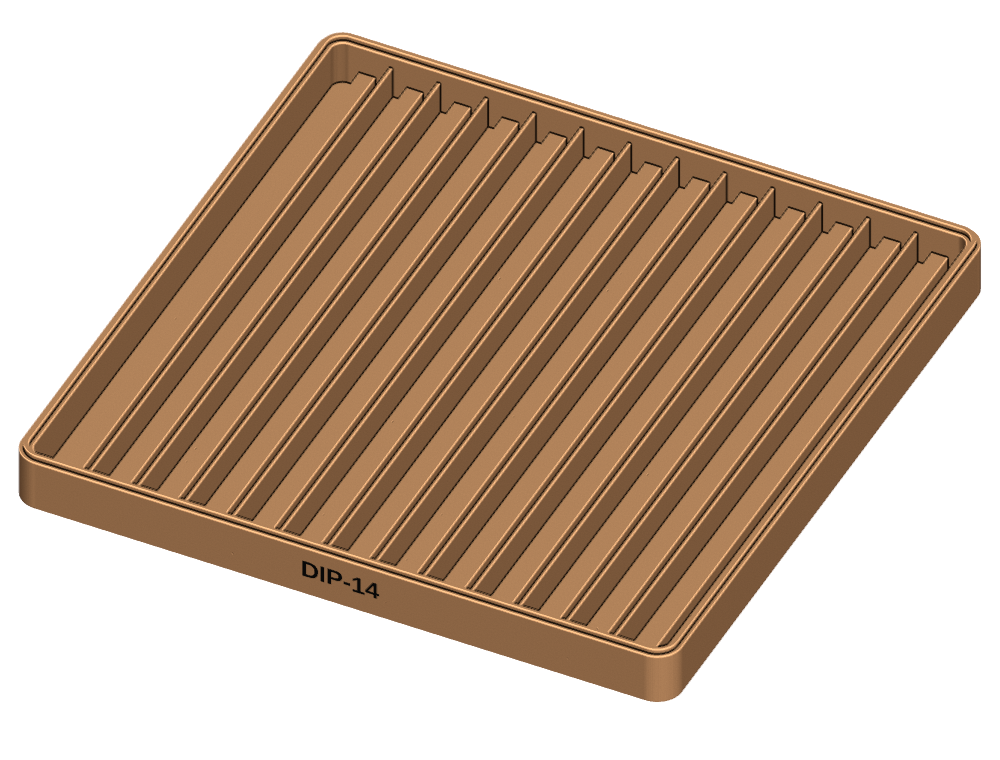
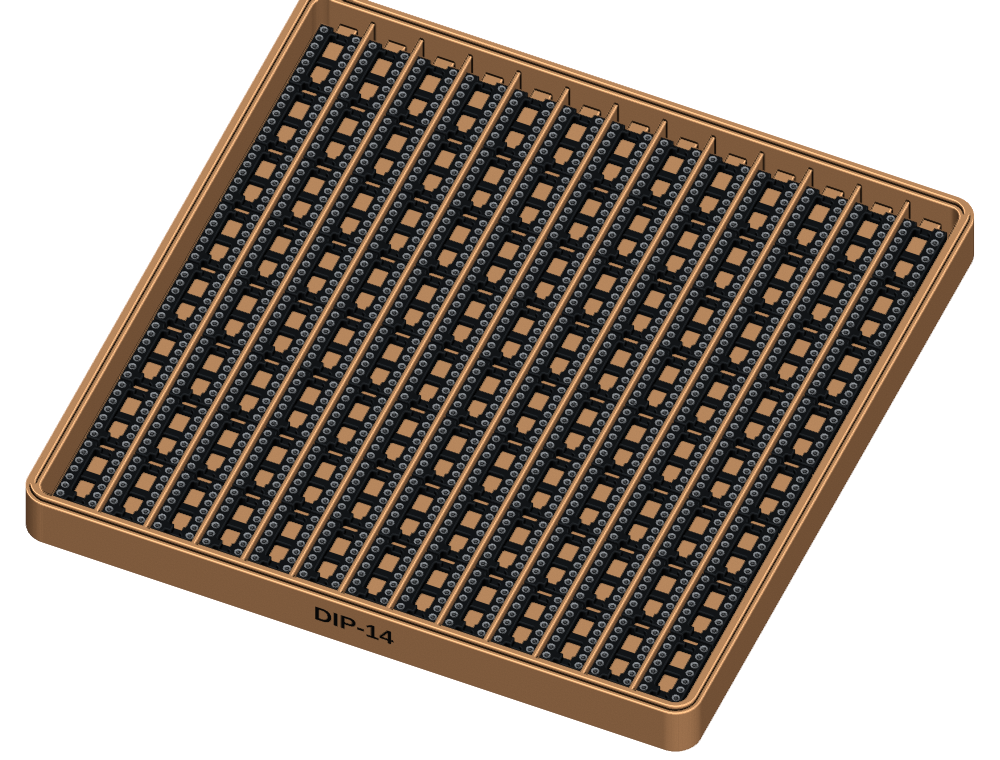
Updating images

diff --git a/scripts/render_readme.py b/scripts/render_readme.py
@@ -1,11 +1,17 @@
 # SPDX-License-Identifier: CERN-OHL-S-2.0
 
-"""Render the exported tray and two-colour label for README illustrations.
+"""Render a populated tray and two-colour label for README illustrations.
 
 Run with Blender 4.x, for example:
-    blender --background --python scripts/render_readme.py -- 14
+    blender --background --python scripts/render_readme.py -- \
+        14 /path/to/Package_DIP.3dshapes
+
+The socket model directory is optional. When supplied, it must contain the
+matching KiCad ``DIP-*_Socket.wrl`` model. The KiCad files are used as render
+inputs only and are not copied into this project.
 """
 
+import math
 import sys
 from pathlib import Path
 
@@ -36,6 +42,119 @@ def import_stl(path, name, mat):
     return obj
 
 
+def object_bounds(objects):
+    points = [obj.matrix_world @ Vector(corner) for obj in objects
+              for corner in obj.bound_box]
+    return ([min(point[axis] for point in points) for axis in range(3)],
+            [max(point[axis] for point in points) for axis in range(3)])
+
+
+def join_objects(objects, name, mat):
+    bpy.ops.object.select_all(action="DESELECT")
+    for obj in objects:
+        obj.select_set(True)
+    bpy.context.view_layer.objects.active = objects[0]
+    bpy.ops.object.join()
+    obj = bpy.context.object
+    obj.name = name
+    obj.data.materials.clear()
+    obj.data.materials.append(mat)
+    for polygon in obj.data.polygons:
+        polygon.use_smooth = False
+    return obj
+
+
+def import_kicad_socket(path, support_z, body_mat, pin_mat):
+    """Import, orient, and centre one KiCad VRML socket at the origin."""
+    bpy.ops.object.select_all(action="DESELECT")
+    before = set(bpy.context.scene.objects)
+    bpy.ops.import_scene.x3d(filepath=str(path))
+    imported = [obj for obj in bpy.context.scene.objects
+                if obj not in before and obj.type == "MESH"]
+
+    # KiCad WRL units are 2.54 mm and the importer maps the PCB's Z axis to Y.
+    for obj in imported:
+        bpy.ops.object.select_all(action="DESELECT")
+        # X3D imports may retain an axis-conversion parent. Detach it while
+        # preserving the world transform so subsequent rotations use Blender's
+        # canonical world axes rather than the KiCad/X3D local axes.
+        world_transform = obj.matrix_world.copy()
+        obj.parent = None
+        obj.matrix_world = world_transform
+        obj.scale = (2.54, 2.54, 2.54)
+        obj.rotation_euler.x = math.radians(90)
+        bpy.context.view_layer.objects.active = obj
+        obj.select_set(True)
+        bpy.ops.object.transform_apply(location=False, rotation=True, scale=True)
+        obj.select_set(False)
+
+    body_parts = [obj for obj in imported
+                  if obj.data.materials
+                  and "IC-BODY" in obj.data.materials[0].name]
+    pin_parts = [obj for obj in imported if obj not in body_parts]
+    body = join_objects(body_parts, "Socket body", body_mat)
+    pins = join_objects(pin_parts, "Socket contacts", pin_mat)
+
+    # Roll the socket onto its back around Blender's world X axis. KiCad/X3D
+    # uses a different canonical-axis convention, so this must be explicit.
+    for obj in (body, pins):
+        bpy.ops.object.select_all(action="DESELECT")
+        obj.rotation_euler.x = math.radians(90)
+        obj.select_set(True)
+        bpy.context.view_layer.objects.active = obj
+        bpy.ops.object.transform_apply(location=False, rotation=True, scale=False)
+        obj.select_set(False)
+
+    body_min, body_max = object_bounds([body])
+    centre_x = (body_min[0] + body_max[0]) / 2
+    centre_y = (body_min[1] + body_max[1]) / 2
+    offset = Vector((-centre_x, -centre_y, support_z - body_min[2]))
+    body.location += offset
+    pins.location += offset
+    return body, pins
+
+
+def duplicate_socket(parts, x, y, number):
+    for source in parts:
+        copy = source.copy()
+        copy.data = source.data
+        copy.name = f"{source.name} {number}"
+        copy.location += Vector((x, y, 0))
+        bpy.context.collection.objects.link(copy)
+
+
+def populate_tray(parts, pins):
+    """Fill every channel to the same maximum capacity as the OpenSCAD model."""
+    wide = pins >= 28
+    socket_width = 17.78 if wide else 10.16
+    channel_width = socket_width + 0.60
+    guide_width = 0.80
+    row_pitch = channel_width + guide_width
+    row_count = 8 if wide else 13
+    used_width = row_count * channel_width + (row_count - 1) * guide_width
+    rows_x0 = (160 - used_width) / 2
+    socket_length = pins / 2 * 2.54
+    inner_length = 160 - 2 * 3.20
+    gap = 0.60
+    sockets_per_row = int((inner_length + gap) / (socket_length + gap))
+    used_length = (sockets_per_row * socket_length
+                   + (sockets_per_row - 1) * gap)
+    sockets_y0 = (160 - used_length) / 2
+
+    number = 0
+    for row in range(row_count):
+        x = rows_x0 + channel_width / 2 + row * row_pitch
+        for position in range(sockets_per_row):
+            y = (sockets_y0 + socket_length / 2
+                 + position * (socket_length + gap))
+            duplicate_socket(parts, x, y, number)
+            number += 1
+
+    # The imported pair serves only as the duplication source.
+    for obj in parts:
+        bpy.data.objects.remove(obj, do_unlink=True)
+
+
 def point_at(obj, target):
     obj.rotation_euler = (Vector(target) - obj.location).to_track_quat("-Z", "Y").to_euler()
 
@@ -51,15 +170,35 @@ label_path = root / "exports" / f"dip{pins}-label.stl"
 output_path = root / "assets" / f"dip{pins}-tray.png"
 output_path.parent.mkdir(parents=True, exist_ok=True)
 
+socket_model_names = {
+    14: "DIP-14_W7.62mm_Socket.wrl",
+    16: "DIP-16_W7.62mm_Socket.wrl",
+    18: "DIP-18_W7.62mm_Socket.wrl",
+    20: "DIP-20_W7.62mm_Socket.wrl",
+    28: "DIP-28_W15.24mm_Socket.wrl",
+    32: "DIP-32_W15.24mm_Socket.wrl",
+    40: "DIP-40_W15.24mm_Socket.wrl",
+}
+
 bpy.ops.wm.read_factory_settings(use_empty=True)
 
 tray_mat = material("Matte sepia PLA", (0.58, 0.32, 0.16), roughness=0.86)
 label_mat = material("Black label", (0.008, 0.008, 0.008), roughness=0.90)
+socket_mat = material("Black socket body", (0.012, 0.014, 0.016), roughness=0.76)
+contact_mat = material("Socket contacts", (0.30, 0.32, 0.34),
+                       metallic=0.42, roughness=0.72)
 
 tray = import_stl(tray_path, f"DIP-{pins} tray", tray_mat)
 label = import_stl(label_path, f"DIP-{pins} label", label_mat)
 
-bpy.ops.object.camera_add(location=(240, -250, 315))
+if len(args) > 1:
+    socket_path = Path(args[1]) / socket_model_names[pins]
+    if not socket_path.is_file():
+        raise FileNotFoundError(f"KiCad socket model not found: {socket_path}")
+    socket_parts = import_kicad_socket(socket_path, 5.8, socket_mat, contact_mat)
+    populate_tray(socket_parts, pins)
+
+bpy.ops.object.camera_add(location=(215, -230, 405))
 camera = bpy.context.object
 camera.data.type = "ORTHO"
 camera.data.ortho_scale = 218

diff --git a/README.md b/README.md
@@ -54,6 +54,12 @@ and keep the sockets arranged in neat rows.
 | --- |
 | ![Wide DIP-40 tray](assets/dip40-tray.png) |
 
+Socket geometry shown in the previews is derived from the
+[KiCad 3D Models library](https://gitlab.com/kicad/libraries/kicad-packages3D),
+licensed under [CC BY-SA 4.0 with the KiCad Libraries Exception](https://www.kicad.org/libraries/license/).
+The sockets are shown for illustration only and are not included in the
+downloadable tray models.
+
 ## Supported trays
 
 | Socket | Profile | Rows | Per row | Capacity |
